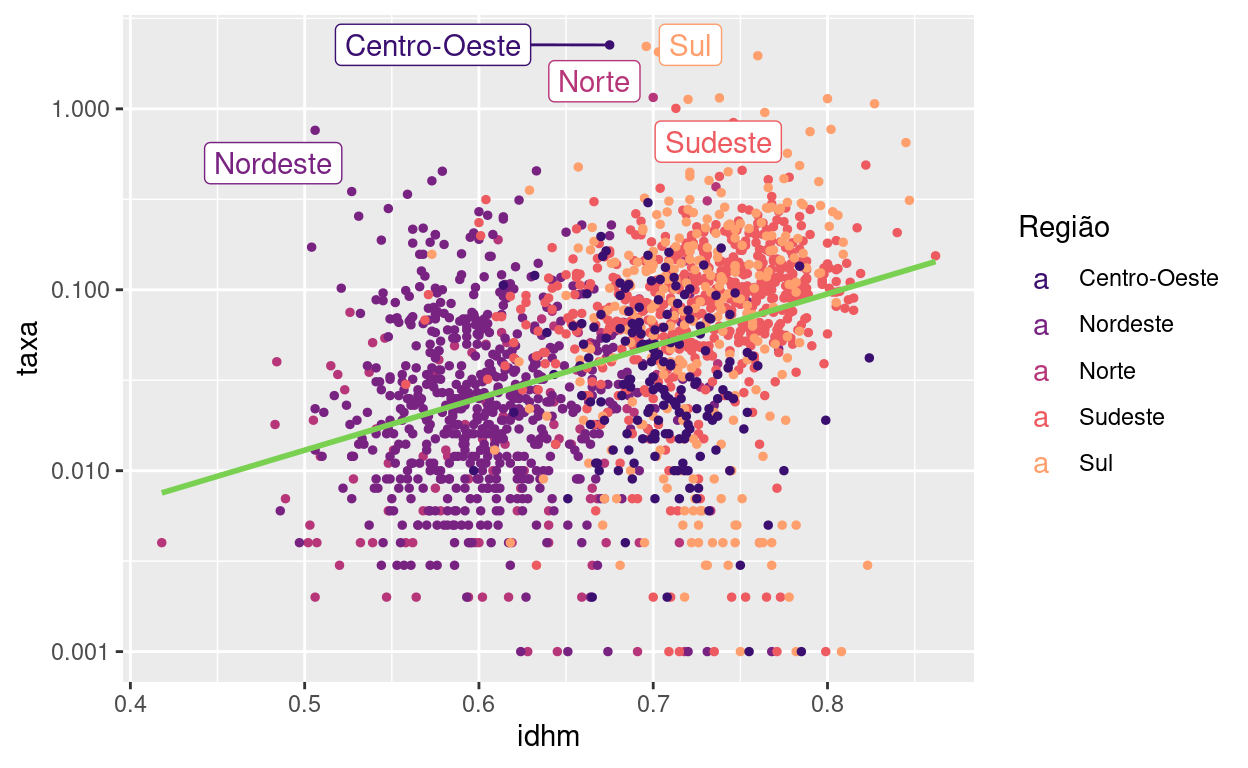
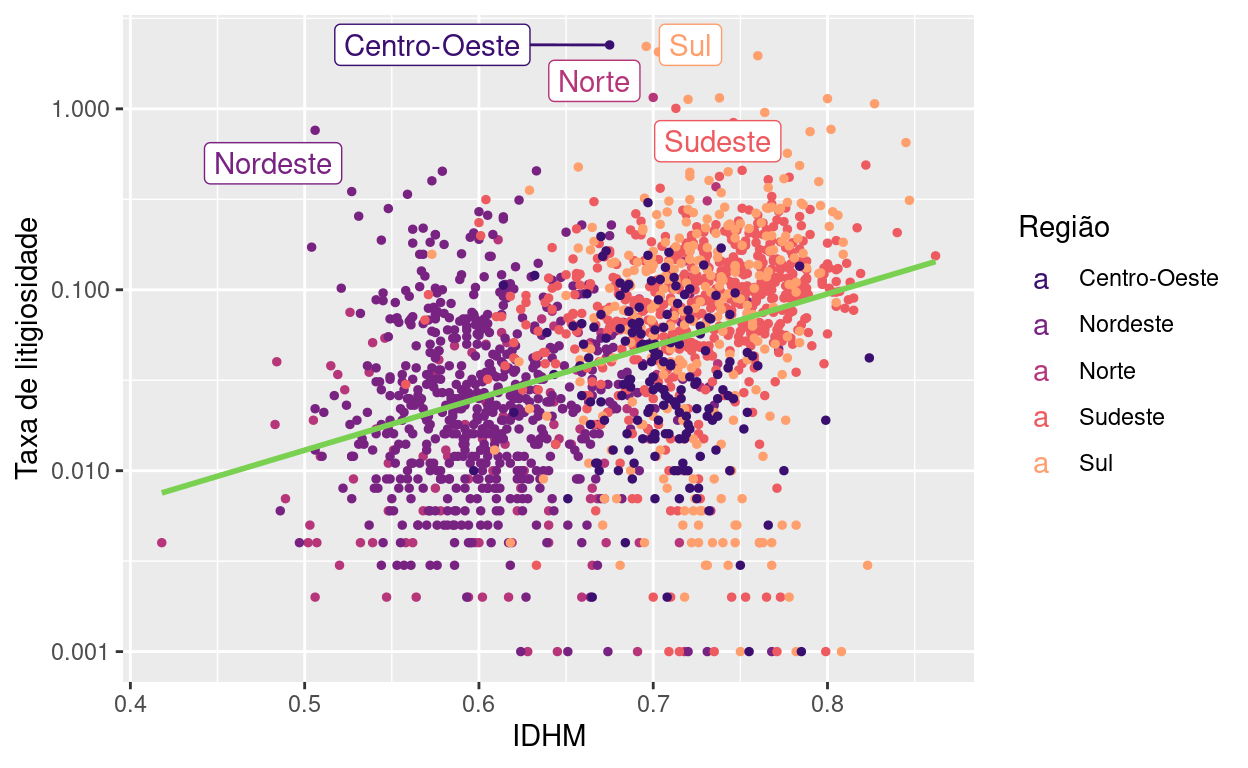
arruma erro typo

diff --git a/docs/posts/2021-01-15-litigiosidade/index.html b/docs/posts/2021-01-15-litigiosidade/index.html
@@ -2262,14 +2262,6 @@ Figure 1: Litigiosidade por IDHM
 Figure 2: Litigiosidade por IDHM por estado
 </p>
 </div>
-<pre><code>$x
-[1] &quot;IDHM&quot;
-
-$y
-[1] &quot;Taxa de litigiosidade&quot;
-
-attr(,&quot;class&quot;)
-[1] &quot;labels&quot;</code></pre>
 </div>
 <p>A figura mostra a taxa de litigiosidade por IDHM educação entre as regiões do Brasil.</p>
 <div class="layout-chunk" data-layout="l-body-outset">
@@ -2290,7 +2282,7 @@ Figure 4: Litigiosidade por gini
 </div>
 </div>
 <h2 id="conclusão">Conclusão</h2>
-<div class="sourceCode" id="cb2"><pre class="sourceCode r distill-force-highlighting-css"><code class="sourceCode r"></code></pre></div>
+<div class="sourceCode" id="cb1"><pre class="sourceCode r distill-force-highlighting-css"><code class="sourceCode r"></code></pre></div>
 <!--radix_placeholder_article_footer-->
 <div class="article-footer">
   <p class="social_footer">

diff --git a/_posts/2021-01-15-litigiosidade/litigiosidade.html b/_posts/2021-01-15-litigiosidade/litigiosidade.html
@@ -1584,14 +1584,6 @@ Figure 1: Litigiosidade por IDHM
 Figure 2: Litigiosidade por IDHM por estado
 </p>
 </div>
-<pre><code>$x
-[1] &quot;IDHM&quot;
-
-$y
-[1] &quot;Taxa de litigiosidade&quot;
-
-attr(,&quot;class&quot;)
-[1] &quot;labels&quot;</code></pre>
 </div>
 <p>A figura mostra a taxa de litigiosidade por IDHM educação entre as regiões do Brasil.</p>
 <div class="layout-chunk" data-layout="l-body-outset">
@@ -1612,7 +1604,7 @@ Figure 4: Litigiosidade por gini
 </div>
 </div>
 <h2 id="conclusão">Conclusão</h2>
-<div class="sourceCode" id="cb2"><pre class="sourceCode r distill-force-highlighting-css"><code class="sourceCode r"></code></pre></div>
+<div class="sourceCode" id="cb1"><pre class="sourceCode r distill-force-highlighting-css"><code class="sourceCode r"></code></pre></div>
 <!--radix_placeholder_article_footer-->
 <!--/radix_placeholder_article_footer-->
 </div>
